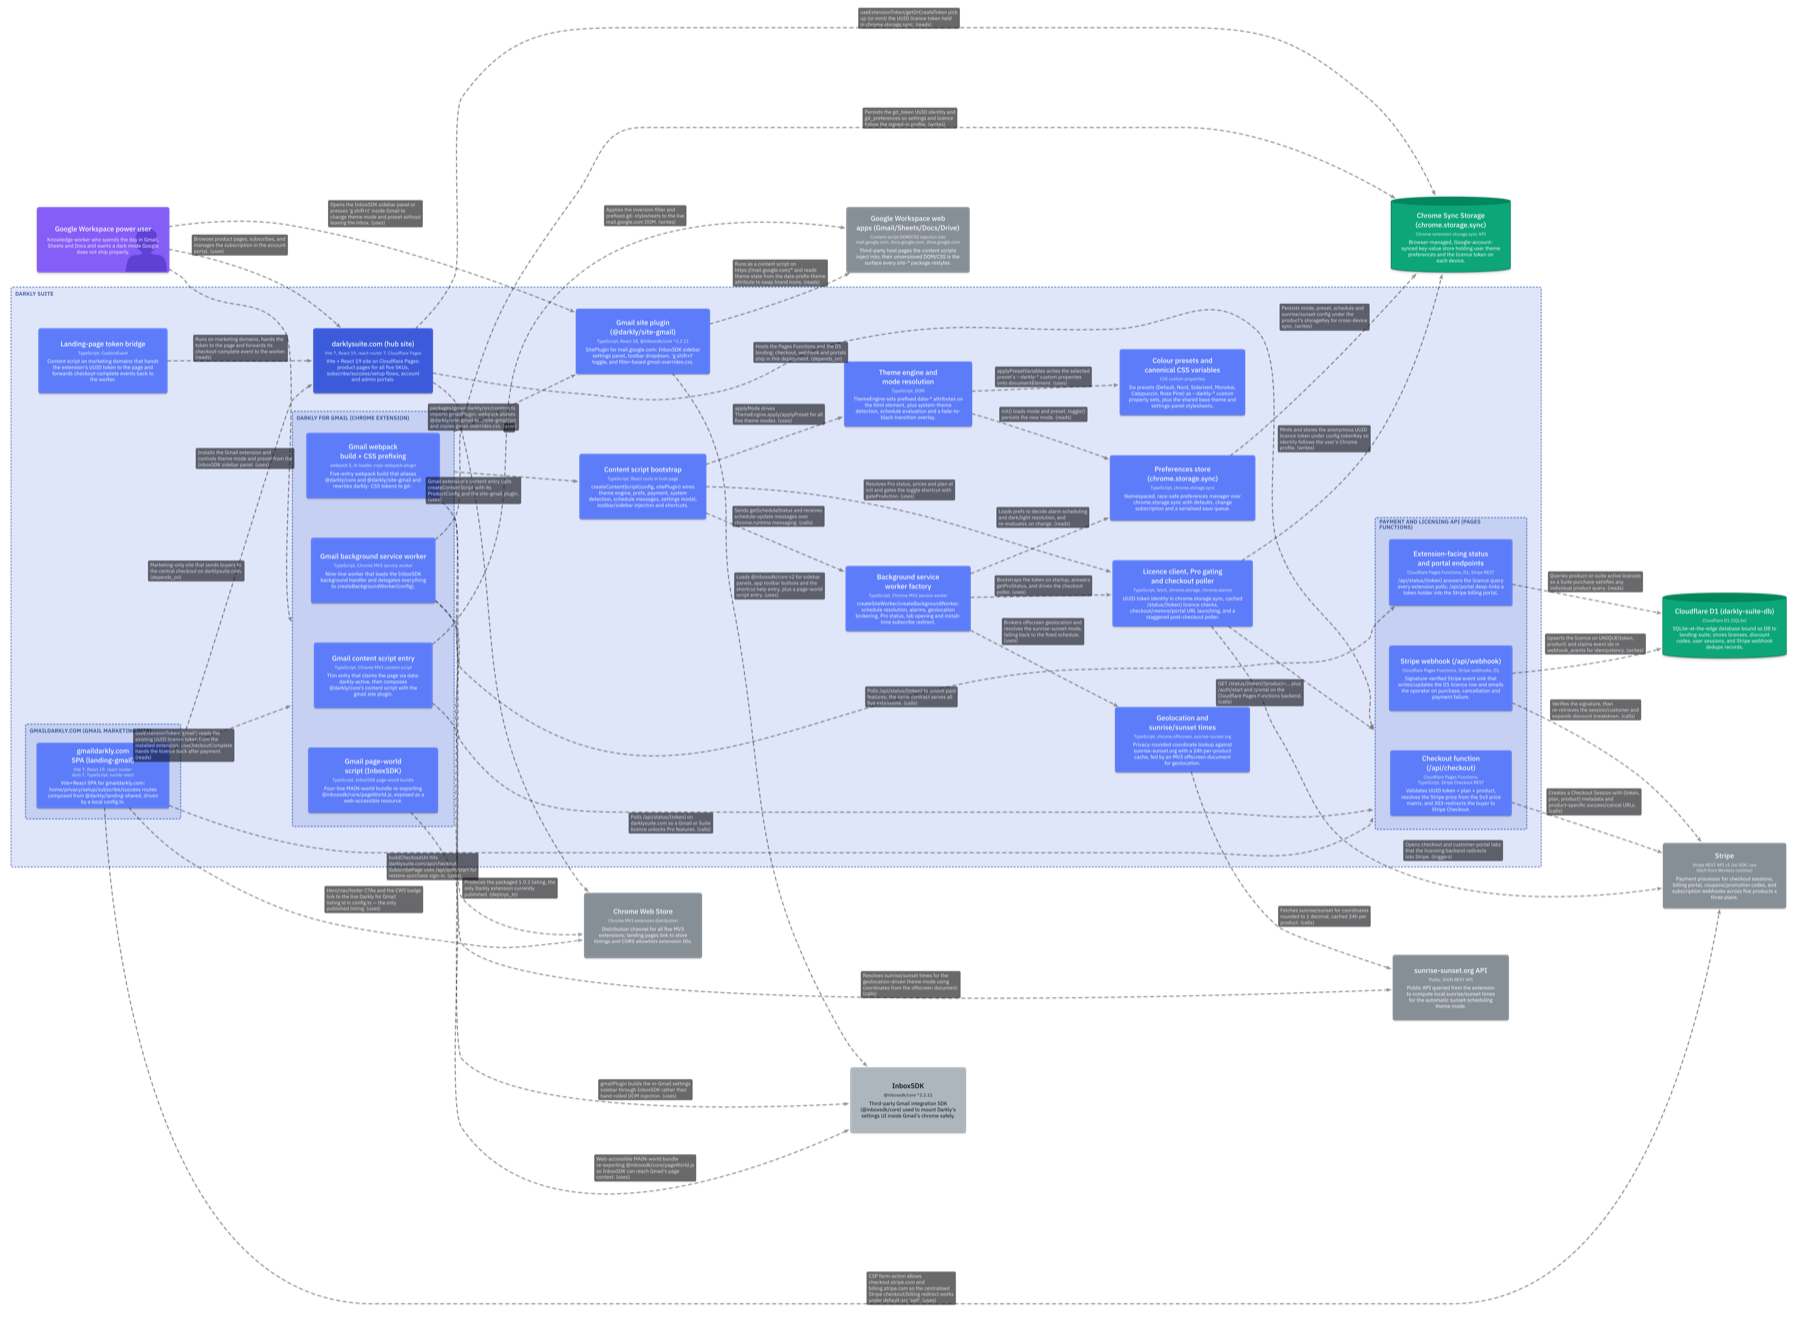
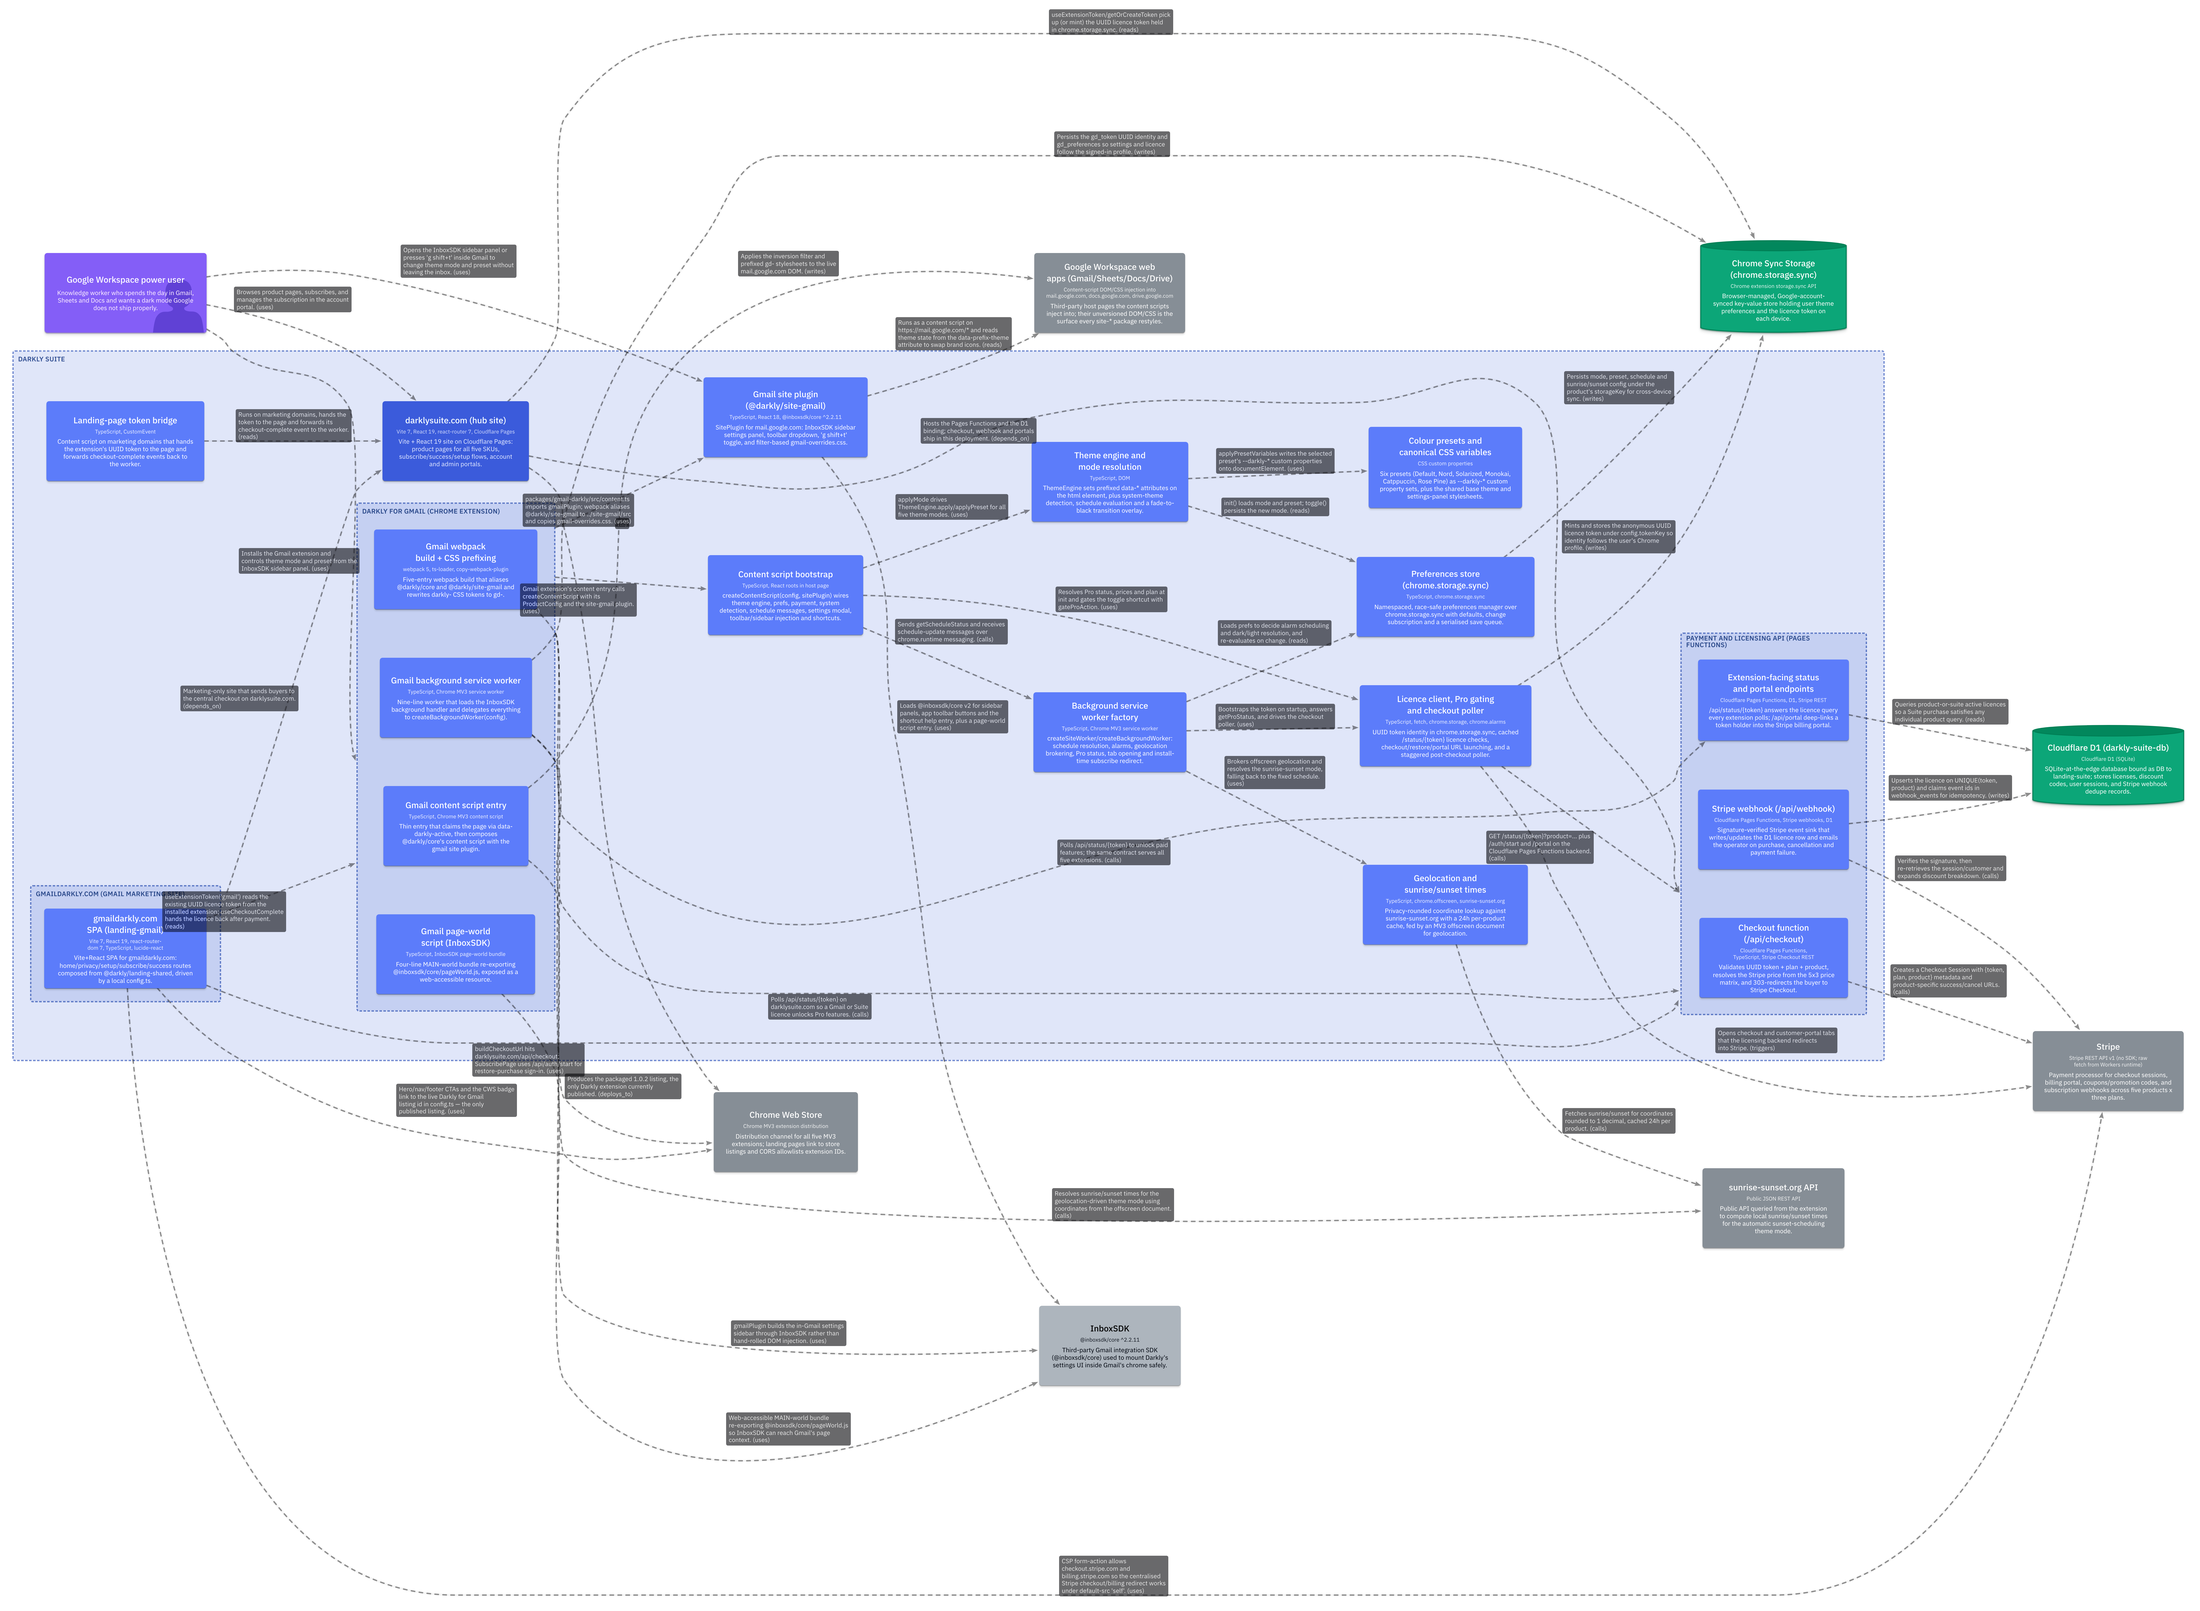
705: replace unreadable README map PNGs with curated light-theme overview exports (#706)

Changed region(s): [[0.8089, 0.1557, 0.84, 0.1868]]

diff --git a/docs/system-map/README.md b/docs/system-map/README.md
@@ -25,8 +25,38 @@ or view it embedded on [lem.work/projects/darkly-suite](https://lem.work/project
 cd docs/system-map
 npx -y likec4@1.59.2 build --output-single-file --base ./ -o out model
 mv out/index.html darkly-suite-map.html
-npx -y likec4@1.59.2 export png -o png model   # optional static exports
 ```
+
+### Static PNGs
+
+The full `index` view is too sprawling for a static image. For the README PNGs, temporarily add this container-level view to `model/views.c4`, export with `--light`, and flatten the transparent background onto white (GitHub dark mode renders transparency as a void):
+
+```
+view readme {
+  title "Darkly Suite — Overview"
+  include *
+  exclude element.kind = package
+  exclude element.kind = tool
+  include darkly_suite_product.ext_gmail, darkly_suite_product.ext_sheets, darkly_suite_product.ext_docs, darkly_suite_product.ext_suite_bundle, darkly_suite_product.ext_browse
+  include darkly_suite_product.web_darklysuite, darkly_suite_product.api_licensing, darkly_suite_product.web_gmaildarkly, darkly_suite_product.web_sheetsdarkly, darkly_suite_product.web_docsdarkly, darkly_suite_product.web_browsedarkly, darkly_suite_product.tool_screenshot_harness
+  autoLayout LeftRight
+}
+```
+
+```bash
+npx -y likec4@1.59.2 export png --light -f readme -f gmail -o png --flat model
+python3 - << 'PY'
+from PIL import Image
+Image.MAX_IMAGE_PIXELS = None
+for src, out in [('png/readme.png', 'darkly-suite-map.png'), ('png/gmail.png', 'darkly-for-gmail-map.png')]:
+    im = Image.open(src).convert('RGBA')
+    flat = Image.alpha_composite(Image.new('RGBA', im.size, (255,) * 4), im).convert('RGB')
+    flat = flat.resize((2200, round(im.size[1] * 2200 / im.size[0])), Image.LANCZOS)
+    flat.save(out, optimize=True)
+PY
+```
+
+Do not commit the `readme` view — the interactive artifact ships exactly two views.
 
 One post-build patch is required: the LikeC4 viewer hides edge labels while panning/zooming and at low zoom, which reads as flicker. Append this before the final `</body>` of the built HTML:
 
